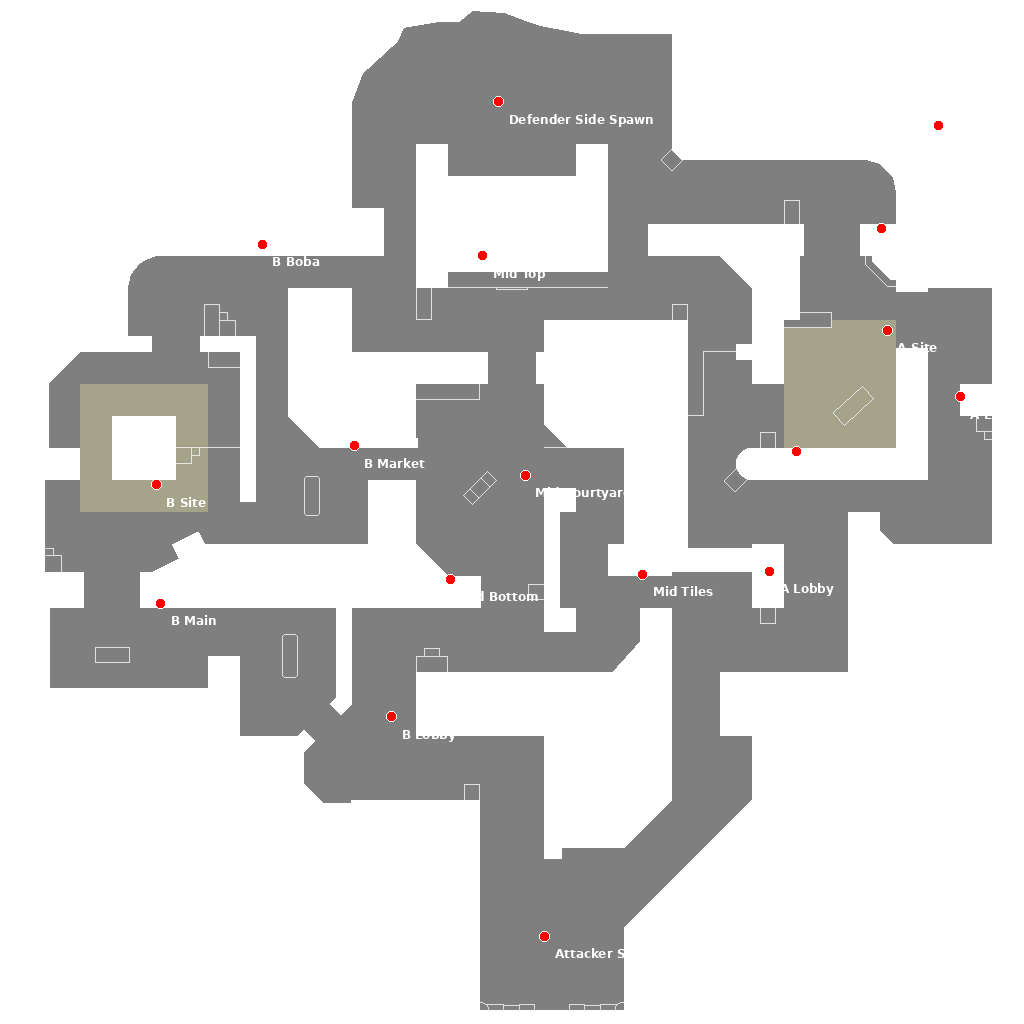
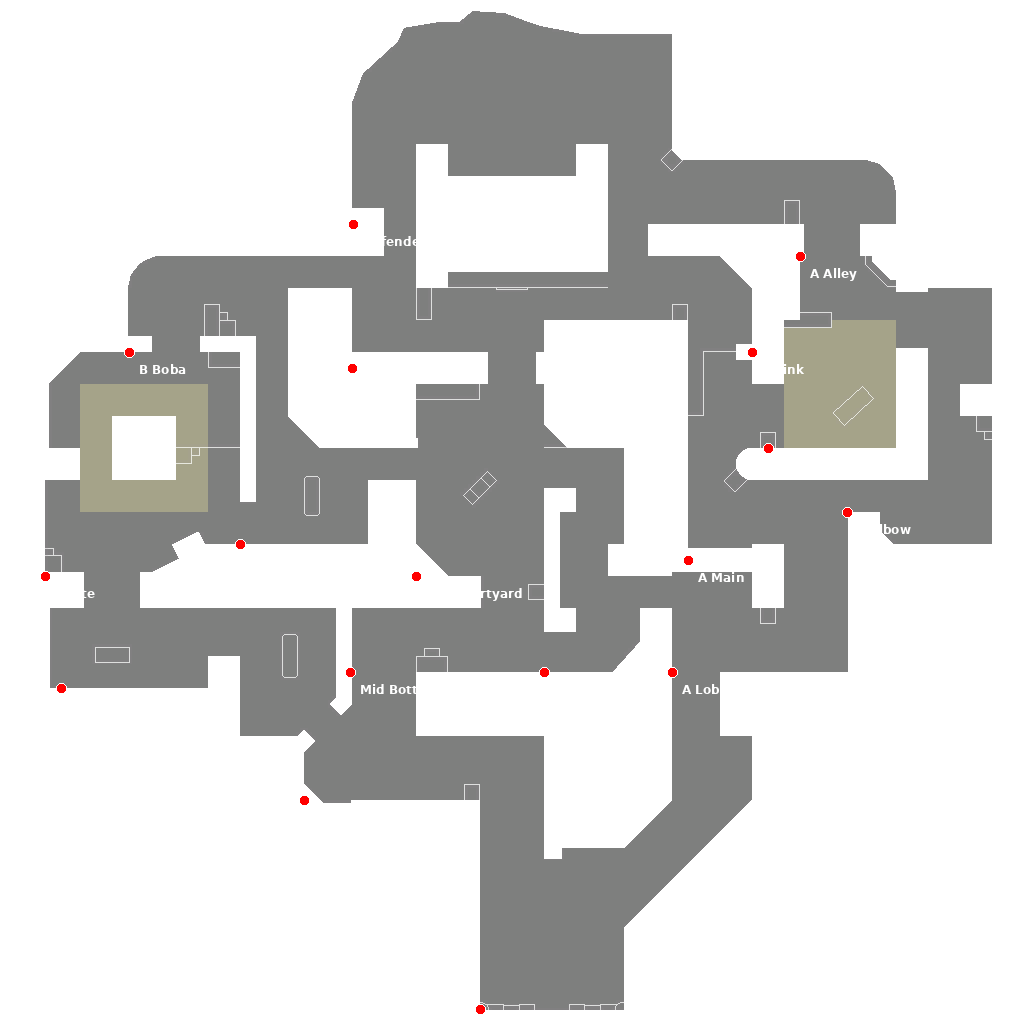
example mapping game event coords to minimap cords (deaths kills spike)

diff --git a/src/event_locations/event_markup.py b/src/event_locations/event_markup.py
@@ -1,0 +1,163 @@
+import json
+import requests
+from PIL import Image, ImageDraw, ImageFont
+import io
+from decimal import Decimal, getcontext
+import random
+
+# Set a high precision for decimal calculations
+getcontext().prec = 50
+
+DEFAULT_GAME_JSON = "/home/colin/vct-esports-manager/data/test-files/sample/sample.json"
+DEFAULT_MAPS_JSON = "/home/colin/vct-esports-manager/src/event_locations/maps.json"
+
+def download_image(url):
+    response = requests.get(url)
+    return Image.open(io.BytesIO(response.content))
+
+def load_json_file(file_path):
+    with open(file_path, 'r') as file:
+        return json.load(file)
+
+def transform_coordinates(x, y, map_data, image_width, image_height):
+    x, y = Decimal(str(x)), Decimal(str(y))
+    xMultiplier = Decimal(str(map_data['xMultiplier']))
+    yMultiplier = Decimal(str(map_data['yMultiplier']))
+    xScalarToAdd = Decimal(str(map_data['xScalarToAdd']))
+    yScalarToAdd = Decimal(str(map_data['yScalarToAdd']))
+    
+    norm_x = (y * xMultiplier) + xScalarToAdd
+    norm_y = (x * yMultiplier) + yScalarToAdd
+    
+    pixel_x = int((norm_x * Decimal(str(image_height))).to_integral_value())
+    pixel_y = int((norm_y * Decimal(str(image_width))).to_integral_value())
+    
+    return pixel_x, pixel_y
+
+def generate_random_color():
+    return (random.randint(64, 255), random.randint(64, 255), random.randint(64, 255))
+
+def parse_configuration(config):
+    players = config['players']
+    player_info = {}
+    for player in players:
+        player_id = player['playerId']['value']
+        display_name = player['displayName']
+        agent_name = player['selectedAgent']['fallback']['displayName']
+        player_info[player_id] = {
+            'displayName': display_name,
+            'agentName': agent_name
+        }
+    return player_info
+
+def plot_events(game_data, map_data, event_type):
+    minimap = download_image(map_data['displayIcon'])
+    image_width, image_height = minimap.size
+    draw = ImageDraw.Draw(minimap)
+    
+    try:
+        font = ImageFont.truetype("/usr/share/fonts/truetype/dejavu/DejaVuSans-Bold.ttf", 12)
+    except IOError:
+        font = ImageFont.load_default()
+
+    player_colors = {}
+    last_known_positions = {}
+    player_info = None
+
+    for event in game_data:
+        if 'configuration' in event:
+            player_info = parse_configuration(event['configuration'])
+            break
+
+    if player_info is None:
+        print("Error: Configuration event not found in game data")
+        return
+
+    for player_id in player_info:
+        player_colors[player_id] = generate_random_color()
+
+    for event in game_data:
+        if 'snapshot' in event:
+            for player in event['snapshot']['players']:
+                player_id = player['playerId']['value']
+                if 'aliveState' in player:
+                    x = player['aliveState']['position']['x']
+                    y = player['aliveState']['position']['y']
+                    last_known_positions[player_id] = (x, y)
+        
+        elif event_type == 'kills' and 'playerDied' in event:
+            killer_id = event['playerDied']['killerId']['value']
+            if killer_id in last_known_positions:
+                x, y = last_known_positions[killer_id]
+                pixel_x, pixel_y = transform_coordinates(x, y, map_data, image_width, image_height)
+                
+                circle_radius = 3
+                draw.ellipse([pixel_x - circle_radius, pixel_y - circle_radius,
+                              pixel_x + circle_radius, pixel_y + circle_radius],
+                             fill=player_colors[killer_id], outline='white')
+
+        elif event_type == 'deaths' and 'playerDied' in event:
+            deceased_id = event['playerDied']['deceasedId']['value']
+            if deceased_id in last_known_positions:
+                x, y = last_known_positions[deceased_id]
+                pixel_x, pixel_y = transform_coordinates(x, y, map_data, image_width, image_height)
+                
+                draw.line((pixel_x - 5, pixel_y - 5, pixel_x + 5, pixel_y + 5), fill=player_colors[deceased_id], width=2)
+                draw.line((pixel_x - 5, pixel_y + 5, pixel_x + 5, pixel_y - 5), fill=player_colors[deceased_id], width=2)
+
+        elif event_type == 'spike_plants' and 'spikePlantCompleted' in event:
+            planter_id = event['spikePlantCompleted']['playerId']['value']
+            x = event['spikePlantCompleted']['plantLocation']['x']
+            y = event['spikePlantCompleted']['plantLocation']['y']
+            pixel_x, pixel_y = transform_coordinates(x, y, map_data, image_width, image_height)
+            
+            draw.rectangle([pixel_x - 5, pixel_y - 5, pixel_x + 5, pixel_y + 5],
+                           fill=player_colors[planter_id], outline='white')
+
+    # Create color legend
+    legend_width = 200
+    legend_height = len(player_colors) * 20 + 10
+    legend = Image.new('RGBA', (legend_width, legend_height), (0, 0, 0, 180))
+    legend_draw = ImageDraw.Draw(legend)
+
+    for i, (player_id, color) in enumerate(player_colors.items()):
+        y = i * 20 + 5
+        legend_draw.rectangle([5, y, 25, y + 15], fill=color, outline='white')
+        player_name = player_info[player_id]['displayName']
+        agent_name = player_info[player_id]['agentName']
+        legend_draw.text((30, y), f"{player_name} ({agent_name})", fill='white', font=font)
+
+    minimap.paste(legend, (image_width - legend_width - 10, 10), legend)
+
+    minimap.save(f'player_{event_type}.png')
+    print(f"Player {event_type} plotted and saved as 'player_{event_type}.png'")
+
+if __name__ == "__main__":
+    game_json_file = input(f"Enter the path to the game JSON file (default: {DEFAULT_GAME_JSON}): ") or DEFAULT_GAME_JSON
+    maps_json_file = input(f"Enter the path to the maps JSON file (default: {DEFAULT_MAPS_JSON}): ") or DEFAULT_MAPS_JSON
+
+    try:
+        game_data = load_json_file(game_json_file)
+        maps_data = load_json_file(maps_json_file)
+
+        # Find the correct map data
+        map_name = 'Lotus'
+        if map_name is None:
+            print("Error: Map name not found in game data")
+            exit(1)
+
+        map_data = next((map_data for map_data in maps_data if map_data['displayName'] == map_name), None)
+        if map_data is None:
+            print(f"Error: Map data not found for {map_name}")
+            exit(1)
+
+        event_types = ['kills', 'deaths', 'spike_plants']
+        for event_type in event_types:
+            plot_events(game_data, map_data, event_type)
+
+    except FileNotFoundError as e:
+        print(f"Error: File not found - {e}")
+    except json.JSONDecodeError as e:
+        print(f"Error: Invalid JSON in input file - {e}")
+    except Exception as e:
+        print(f"An unexpected error occurred: {e}")

diff --git a/src/event_locations/map_markup.py b/src/event_locations/map_markup.py
@@ -2,6 +2,10 @@ import json
 import requests
 from PIL import Image, ImageDraw, ImageFont
 import io
+from decimal import Decimal, getcontext
+
+# Set a high precision for decimal calculations
+getcontext().prec = 50
 
 def download_image(url):
     response = requests.get(url)
@@ -12,21 +16,20 @@ def load_map_data(filename):
         return json.load(f)
 
 def transform_coordinates(x, y, map_data, image_width, image_height):
-    # Normalize the coordinates
-    norm_x = (x * map_data['xMultiplier']) + map_data['xScalarToAdd']
-    norm_y = (y * map_data['yMultiplier']) + map_data['yScalarToAdd']
+    # Use Decimal for high-precision calculations
+    x = Decimal(str(x))
+    y = Decimal(str(y))
+    xMultiplier = Decimal(str(map_data['xMultiplier']))
+    yMultiplier = Decimal(str(map_data['yMultiplier']))
+    xScalarToAdd = Decimal(str(map_data['xScalarToAdd']))
+    yScalarToAdd = Decimal(str(map_data['yScalarToAdd']))
     
-    # Rotate 90 degrees clockwise
-    rotated_x = norm_y
-    rotated_y = 1 - norm_x
+    # Scale and swap coordinates (implicit 90-degree rotation)
+    norm_x = (y * xMultiplier) + xScalarToAdd
+    norm_y = (x * yMultiplier) + yScalarToAdd
     
-    # Invert horizontally
-    inverted_x = 1 - rotated_x
-    inverted_y = rotated_y
-    
-    # Convert to pixel coordinates
-    pixel_x = int(inverted_x * image_height)
-    pixel_y = int(inverted_y * image_width)
+    pixel_x = int((norm_x * Decimal(str(image_height))).to_integral_value())
+    pixel_y = int((norm_y * Decimal(str(image_width))).to_integral_value())
     
     return pixel_x, pixel_y
 
@@ -39,7 +42,7 @@ def draw_callouts(image, map_data):
     image_width, image_height = image.size
     
     for callout in map_data['callouts']:
-        x, y = callout['location']['x'], callout['location']['y']
+        x, y = Decimal(str(callout['location']['x'])), Decimal(str(callout['location']['y']))
         pixel_x, pixel_y = transform_coordinates(x, y, map_data, image_width, image_height)
         
         # Draw a small circle for each callout
@@ -70,7 +73,7 @@ def main():
     draw_callouts(minimap, sunset_map)
     
     # Save the result
-    minimap.save('sunset_map_with_callouts2.png')
+    minimap.save('sunset_map_with_callouts.png')
     print("Map with callouts saved as 'sunset_map_with_callouts.png'")
 
 if __name__ == "__main__":
